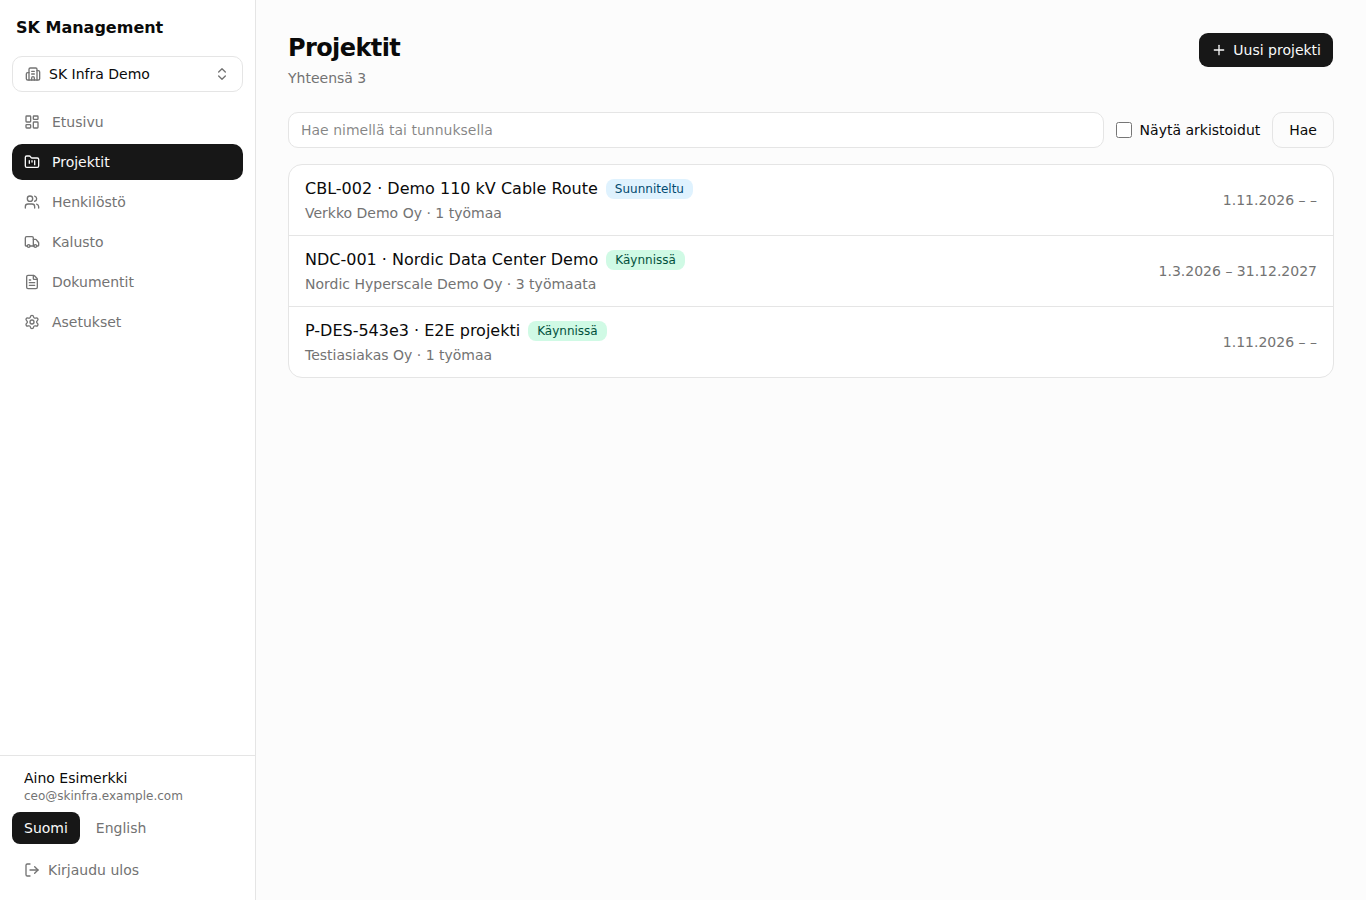
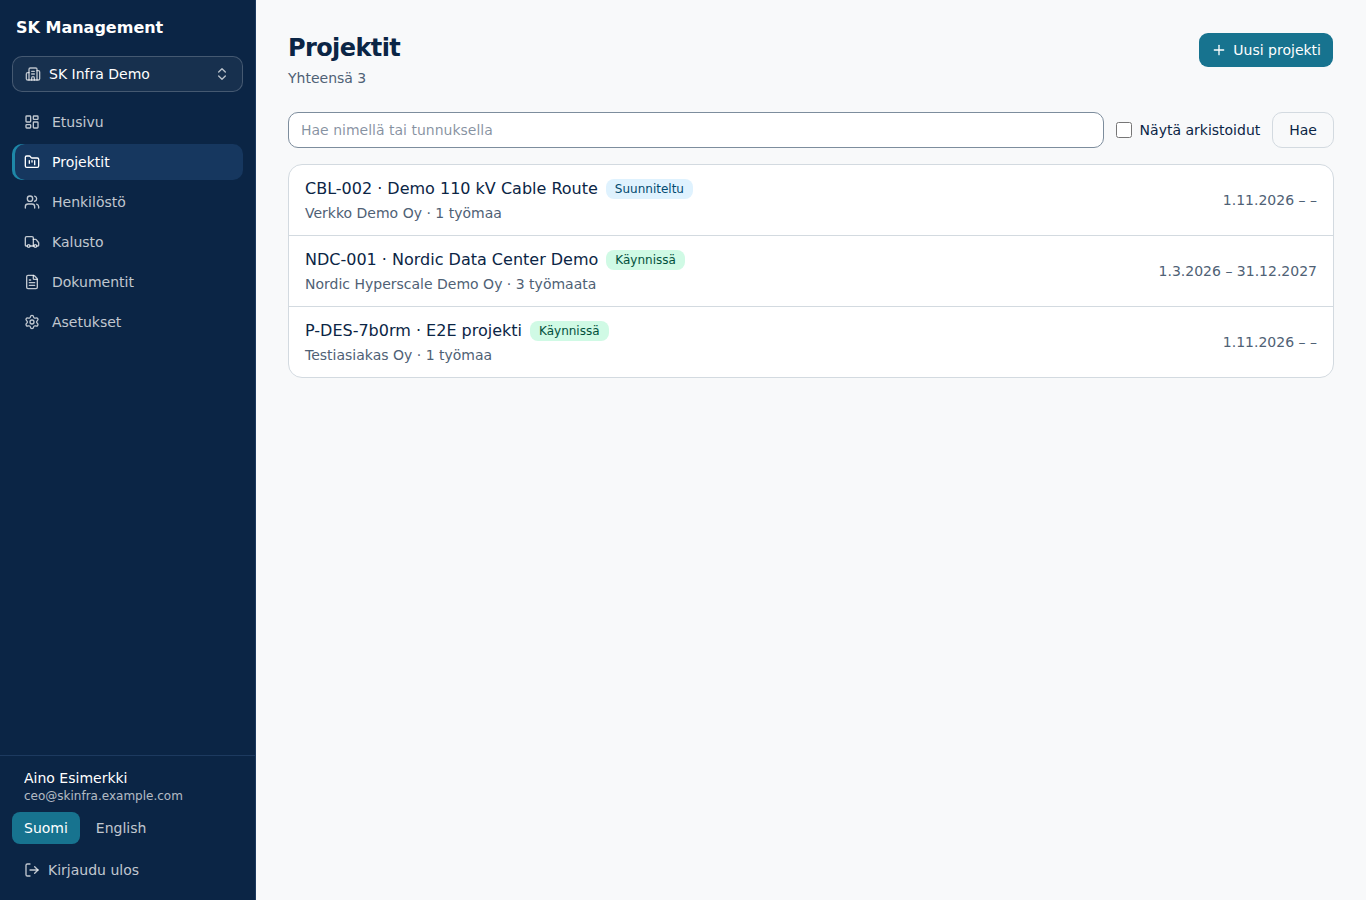
Apply SK Infra brand colours and fix mobile search field
- Theme tokens from www.skinfra.fi: navy #0B2545 navigation and text,
  turquoise #1E88A8 accents, light grey #E8ECEF surfaces
- Buttons use darker turquoise #17738F: white on #1E88A8 is 4.08:1,
  below WCAG AA 4.5:1; #1E88A8 kept for non-text accents
- Navy sidebar and mobile top bar with turquoise active markers
- Fix search input collapsing to ~20px height on phones (flex-1 in a
  column layout)
- Regenerate screenshots

Claude-Session: https://claude.ai/code/session_018ft8fM8kDYvPQkEK57gV4W

diff --git a/src/ui/shell/app-shell.tsx b/src/ui/shell/app-shell.tsx
@@ -41,17 +41,21 @@ function isActive(pathname: string, href: string) {
   return pathname === href || pathname.startsWith(`${href}/`);
 }
 
-function CompanySwitcher({ company, companies, labels, className }: Pick<ShellProps, "company" | "companies" | "labels"> & { className?: string }) {
+function CompanySwitcher({ company, companies, labels, className, dark }: Pick<ShellProps, "company" | "companies" | "labels"> & { className?: string; dark?: boolean }) {
   return (
     <DropdownMenu>
       <DropdownMenuTrigger
-        className={cn("flex min-h-11 w-full items-center gap-2 rounded-lg border bg-background px-3 text-left text-sm font-medium hover:bg-muted md:min-h-9", className)}
+        className={cn(
+          "flex min-h-11 w-full items-center gap-2 rounded-lg border px-3 text-left text-sm font-medium md:min-h-9",
+          dark ? "border-white/20 bg-white/5 text-white hover:bg-white/10" : "bg-background hover:bg-muted",
+          className,
+        )}
         aria-label={labels.switchCompany}
         data-testid="company-switcher"
       >
-        <Building2 className="size-4 shrink-0 text-muted-foreground" aria-hidden />
+        <Building2 className={cn("size-4 shrink-0", dark ? "text-white/70" : "text-muted-foreground")} aria-hidden />
         <span className="flex-1 truncate">{company.name}</span>
-        <ChevronsUpDown className="size-4 shrink-0 text-muted-foreground" aria-hidden />
+        <ChevronsUpDown className={cn("size-4 shrink-0", dark ? "text-white/70" : "text-muted-foreground")} aria-hidden />
       </DropdownMenuTrigger>
       <DropdownMenuContent align="start" className="w-64">
         <DropdownMenuLabel>{labels.switchCompany}</DropdownMenuLabel>
@@ -72,7 +76,7 @@ function CompanySwitcher({ company, companies, labels, className }: Pick<ShellPr
   );
 }
 
-function LocaleForm({ locale, labels, setLocaleAction, onSubmit }: Pick<ShellProps, "locale" | "labels" | "setLocaleAction"> & { onSubmit?: () => void }) {
+function LocaleForm({ locale, labels, setLocaleAction, onSubmit, dark }: Pick<ShellProps, "locale" | "labels" | "setLocaleAction"> & { onSubmit?: () => void; dark?: boolean }) {
   return (
     <form action={setLocaleAction} onSubmit={onSubmit} className="flex items-center gap-1" aria-label={labels.language}>
       {(["fi", "en"] as const).map((l) => (
@@ -84,7 +88,7 @@ function LocaleForm({ locale, labels, setLocaleAction, onSubmit }: Pick<ShellPro
           aria-pressed={locale === l}
           className={cn(
             "min-h-11 rounded-md px-3 text-sm md:min-h-8",
-            locale === l ? "bg-primary text-primary-foreground" : "text-muted-foreground hover:bg-muted",
+            locale === l ? "bg-primary text-primary-foreground" : dark ? "text-white/75 hover:bg-white/10 hover:text-white" : "text-muted-foreground hover:bg-muted",
           )}
         >
           {labels[l]}
@@ -94,10 +98,13 @@ function LocaleForm({ locale, labels, setLocaleAction, onSubmit }: Pick<ShellPro
   );
 }
 
-function SignOutButton({ labels, signOutAction }: Pick<ShellProps, "labels" | "signOutAction">) {
+function SignOutButton({ labels, signOutAction, dark }: Pick<ShellProps, "labels" | "signOutAction"> & { dark?: boolean }) {
   return (
     <form action={signOutAction}>
-      <button type="submit" className="flex min-h-11 w-full items-center gap-2 rounded-lg px-3 text-sm text-muted-foreground hover:bg-muted hover:text-foreground md:min-h-9">
+      <button type="submit" className={cn(
+          "flex min-h-11 w-full items-center gap-2 rounded-lg px-3 text-sm md:min-h-9",
+          dark ? "text-white/75 hover:bg-white/10 hover:text-white" : "text-muted-foreground hover:bg-muted hover:text-foreground",
+        )}>
         <LogOut className="size-4" aria-hidden />
         {labels.signOut}
       </button>
@@ -116,10 +123,10 @@ export function AppShell(props: ShellProps) {
   return (
     <div className="min-h-dvh bg-muted/30">
       {/* Desktop sidebar */}
-      <aside className="fixed inset-y-0 left-0 z-30 hidden w-64 flex-col border-r bg-background md:flex">
+      <aside className="fixed inset-y-0 left-0 z-30 hidden w-64 flex-col border-r border-sidebar-border bg-sidebar text-sidebar-foreground md:flex">
         <div className="flex h-14 items-center px-4 text-base font-semibold">{labels.appName}</div>
         <div className="px-3 pb-3">
-          <CompanySwitcher company={company} companies={companies} labels={labels} />
+          <CompanySwitcher company={company} companies={companies} labels={labels} dark />
         </div>
         <nav aria-label={labels.mainNav} className="flex-1 space-y-1 overflow-y-auto px-3">
           {nav.map((item) => {
@@ -132,7 +139,9 @@ export function AppShell(props: ShellProps) {
                 aria-current={active ? "page" : undefined}
                 className={cn(
                   "flex min-h-9 items-center gap-3 rounded-lg px-3 text-sm font-medium",
-                  active ? "bg-primary text-primary-foreground" : "text-muted-foreground hover:bg-muted hover:text-foreground",
+                  active
+                    ? "bg-sidebar-accent text-sidebar-accent-foreground shadow-[inset_3px_0_0_var(--brand-turquoise)]"
+                    : "text-white/75 hover:bg-white/10 hover:text-white",
                 )}
               >
                 <Icon className="size-4" aria-hidden />
@@ -141,19 +150,19 @@ export function AppShell(props: ShellProps) {
             );
           })}
         </nav>
-        <div className="space-y-2 border-t p-3">
+        <div className="space-y-2 border-t border-sidebar-border p-3">
           <div className="px-3 text-sm">
             <div className="truncate font-medium">{user.name ?? user.email}</div>
-            <div className="truncate text-xs text-muted-foreground">{user.email}</div>
+            <div className="truncate text-xs text-white/70">{user.email}</div>
           </div>
-          <LocaleForm locale={props.locale} labels={labels} setLocaleAction={props.setLocaleAction} />
-          <SignOutButton labels={labels} signOutAction={props.signOutAction} />
+          <LocaleForm locale={props.locale} labels={labels} setLocaleAction={props.setLocaleAction} dark />
+          <SignOutButton labels={labels} signOutAction={props.signOutAction} dark />
         </div>
       </aside>
 
       {/* Mobile top bar */}
-      <header className="sticky top-0 z-20 flex h-14 items-center gap-2 border-b bg-background/95 px-3 backdrop-blur md:hidden">
-        <CompanySwitcher company={company} companies={companies} labels={labels} className="border-0 px-2" />
+      <header className="sticky top-0 z-20 flex h-14 items-center gap-2 bg-sidebar px-3 text-sidebar-foreground md:hidden">
+        <CompanySwitcher company={company} companies={companies} labels={labels} className="border-0 bg-transparent px-2" dark />
       </header>
 
       <main className="pb-24 md:pb-10 md:pl-64">
@@ -171,7 +180,10 @@ export function AppShell(props: ShellProps) {
                 <Link
                   href={item.href}
                   aria-current={active ? "page" : undefined}
-                  className={cn("flex h-16 flex-col items-center justify-center gap-1 text-[11px] font-medium", active ? "text-primary" : "text-muted-foreground")}
+                  className={cn(
+                    "flex h-16 flex-col items-center justify-center gap-1 text-[11px] font-medium",
+                    active ? "text-primary shadow-[inset_0_3px_0_var(--brand-turquoise)]" : "text-muted-foreground",
+                  )}
                 >
                   <Icon className={cn("size-6", active && "stroke-[2.5]")} aria-hidden />
                   <span className="max-w-full truncate px-1">{item.label}</span>

diff --git a/src/app/globals.css b/src/app/globals.css
@@ -49,38 +49,51 @@
 }
 
 :root {
-  --background: oklch(1 0 0);
-  --foreground: oklch(0.145 0 0);
-  --card: oklch(1 0 0);
-  --card-foreground: oklch(0.145 0 0);
-  --popover: oklch(1 0 0);
-  --popover-foreground: oklch(0.145 0 0);
-  --primary: oklch(0.205 0 0);
-  --primary-foreground: oklch(0.985 0 0);
-  --secondary: oklch(0.97 0 0);
-  --secondary-foreground: oklch(0.205 0 0);
-  --muted: oklch(0.97 0 0);
-  --muted-foreground: oklch(0.556 0 0);
-  --accent: oklch(0.97 0 0);
-  --accent-foreground: oklch(0.205 0 0);
+  /*
+   * SK Infra brand (www.skinfra.fi):
+   *   turquoise #1E88A8 (buttons, highlights), navy #0B2545 (navigation, text),
+   *   light grey #E8ECEF (backgrounds, form fields), white #FFFFFF.
+   * Accessibility (WCAG AA): white on #1E88A8 is 4.08:1 (< 4.5), so surfaces
+   * carrying text use the darker turquoise #17738F (5.4:1). #1E88A8 is kept
+   * for non-text accents (focus ring, active markers, icons).
+   */
+  --brand-turquoise: #1e88a8;
+  --brand-turquoise-strong: #17738f;
+  --brand-navy: #0b2545;
+  --brand-grey: #e8ecef;
+
+  --background: #ffffff;
+  --foreground: var(--brand-navy);
+  --card: #ffffff;
+  --card-foreground: var(--brand-navy);
+  --popover: #ffffff;
+  --popover-foreground: var(--brand-navy);
+  --primary: var(--brand-turquoise-strong);
+  --primary-foreground: #ffffff;
+  --secondary: var(--brand-grey);
+  --secondary-foreground: var(--brand-navy);
+  --muted: var(--brand-grey);
+  --muted-foreground: #4f6175;
+  --accent: var(--brand-grey);
+  --accent-foreground: var(--brand-navy);
   --destructive: oklch(0.577 0.245 27.325);
-  --border: oklch(0.922 0 0);
-  --input: oklch(0.922 0 0);
-  --ring: oklch(0.708 0 0);
-  --chart-1: oklch(0.87 0 0);
-  --chart-2: oklch(0.556 0 0);
-  --chart-3: oklch(0.439 0 0);
-  --chart-4: oklch(0.371 0 0);
-  --chart-5: oklch(0.269 0 0);
+  --border: #d3dae0;
+  --input: #7d8d9d;
+  --ring: var(--brand-turquoise);
+  --chart-1: var(--brand-turquoise);
+  --chart-2: var(--brand-navy);
+  --chart-3: #5aa9c1;
+  --chart-4: #4f6175;
+  --chart-5: #a9b6c2;
   --radius: 0.625rem;
-  --sidebar: oklch(0.985 0 0);
-  --sidebar-foreground: oklch(0.145 0 0);
-  --sidebar-primary: oklch(0.205 0 0);
-  --sidebar-primary-foreground: oklch(0.985 0 0);
-  --sidebar-accent: oklch(0.97 0 0);
-  --sidebar-accent-foreground: oklch(0.205 0 0);
-  --sidebar-border: oklch(0.922 0 0);
-  --sidebar-ring: oklch(0.708 0 0);
+  --sidebar: var(--brand-navy);
+  --sidebar-foreground: #ffffff;
+  --sidebar-primary: var(--brand-turquoise);
+  --sidebar-primary-foreground: #ffffff;
+  --sidebar-accent: #16375f;
+  --sidebar-accent-foreground: #ffffff;
+  --sidebar-border: #1d3a5f;
+  --sidebar-ring: var(--brand-turquoise);
 }
 
 .dark {

diff --git a/src/ui/components/page.tsx b/src/ui/components/page.tsx
@@ -98,7 +98,7 @@ export function SearchForm({ placeholder, defaultValue, includeArchivedLabel, in
         defaultValue={defaultValue}
         placeholder={placeholder}
         aria-label={searchLabel}
-        className="h-11 flex-1 rounded-lg border border-input bg-background px-3 text-base outline-none focus-visible:border-ring focus-visible:ring-3 focus-visible:ring-ring/50 md:h-9 md:text-sm"
+        className="h-11 w-full rounded-lg border border-input sm:flex-1 bg-background px-3 text-base outline-none focus-visible:border-ring focus-visible:ring-3 focus-visible:ring-ring/50 md:h-9 md:text-sm"
       />
       <label className="flex min-h-11 items-center gap-2 px-1 text-sm md:min-h-0">
         <input type="checkbox" name="archived" value="1" defaultChecked={includeArchived} className="size-5 accent-primary md:size-4" />

diff --git a/src/app/layout.tsx b/src/app/layout.tsx
@@ -11,7 +11,7 @@ export async function generateMetadata(): Promise<Metadata> {
 export const viewport: Viewport = {
   width: "device-width",
   initialScale: 1,
-  themeColor: "#111111",
+  themeColor: "#0b2545",
 };
 
 export default async function RootLayout({ children }: { children: React.ReactNode }) {
